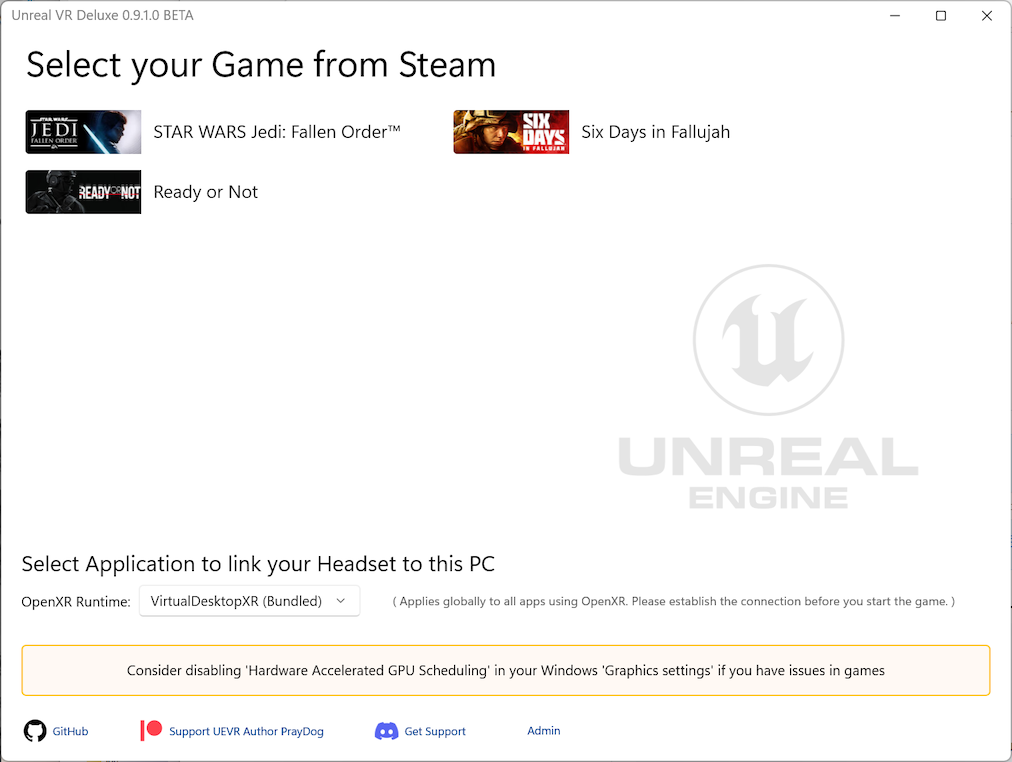
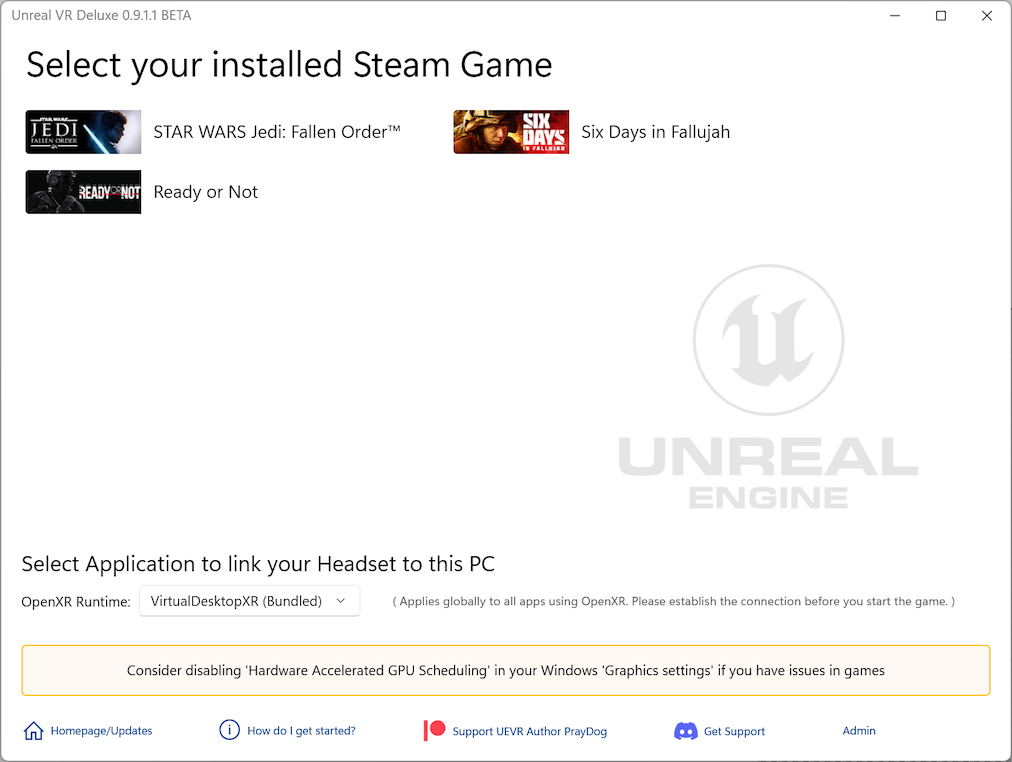
Tutorials page

diff --git a/UEVRTutorial.md b/UEVRTutorial.md
@@ -1,0 +1,84 @@
+## How to get started with UEVRDeluxe?
+New to UEVR, and you want to play 2D PC Steam games in Virtual Reality e.g. using your Meta Quest headset? This is how to get started.  
+
+### 1. Make sure your PC can handle it
+Because VR renders at a very high resolution, and VR experience is sensitive to low frame rates, you need a modern, powerful PC.
+Especially the graphics card should be powerful and have lots of VRAM for the high resolution required to be rendered.  
+If the game you want to play does not even run with high frame rates in high resolutions in 2D, do not even try it in VR.  
+
+### 2. Install your game
+First check if your game is running on Unreal Engine version 4 or higher, which is required for UEVR.
+Simplest way: google/bing you games name including " unreal engine version".  
+UEVR Deluxe currently only supports Steam. Install your game via Steam in the normal way.
+
+### 3. Make sure you have fast network connections
+Transferring the VR display data calculated on your PC to your headset requires lots of bandwidth.  
+
+- If you have a good Wifi/LAN connection - go for WIFI connection  
+Is your PC connected to your router via LAN? Is your network router modern (preferably WIFI6/6E/7)? 
+Is your network channel idle and not congested with other neighborhood networks or e.g. other devices sipping bandwith?
+
+- no good network - go for USB cable connection  
+Though it sounds like a better bet to simply always use USB, it will reduce your options. Better go for WIFI if you can.
+
+### 4. Choose and install an app to link your headset to your PC
+While there are several smaller ones out there, the most widely used and user friendly ones are these:
+
+| App Name | Price | Network | Image quality |
+|----------|-------|---------|---------------|
+| [Virtual Desktop](https://www.vrdesktop.net/) | One time purchase | WIFI only | Best | 
+| [SteamVR](https://store.steampowered.com/app/250820/SteamVR/) | Free | WIFI only | Good |
+| [Meta Quest Link](https://www.meta.com/en-us/help/quest/pcvr/) | Free  | WIFI (Airlink) and USB | Good |
+
+If your network is great, I would highly recommend [Virtual Desktop](https://www.vrdesktop.net/).
+It has the best image encoding, resulting in best image quality if your PC can handle it.  
+If your network is weak and you are a Meta Quest user, go for USB on [Meta Quest Link](https://www.meta.com/en-us/help/quest/pcvr/).  
+If you search for a free option that is also know to be very stable, go for [SteamVR](https://store.steampowered.com/app/250820/SteamVR/).  
+Except from Meta Quest Link the installation requires an app both on PC as well as on the headset.
+
+### 5. Install UEVR Deluxe
+The latest releases can always be found here on GitHub:  
+<a href="https://github.com/oduis/UEVRDeluxe/releases" class="download-link">Download latest UEVR Deluxe release</a>
+
+### 6. UEVR Deluxe - Games page
+When starting UEVR Deluxe you will find a list of installed Unreal engine Steam games that *might* work, plus a switcher for the OpenXR runtime - what is it?  
+There are to protocol standards to transfer VR graphics data: OpenVR is the old one. Some older headsets run OpenVR natively, and SteamVR was first built on it.
+The newer version and recommended protocol is OpenXR. Using OpenXR you can decide what linking app should handle your OpenXR graphics. If you have more than one installed (e.g. to try out different options), choose the one to start the game with here. It is a global option for *all* apps using OpenXR on your PC, not just UEVR Deluxe.
+After selecting your OpenXR runtime (if necessary), just click the game to start.
+
+### 7. UEVR Deluxe - select a profile
+You need a profile telling UEVR how to handle the game, how to connect to your controller e.g. to your weapon etc.
+Just hit "Search online" on this page. You will get a list of profiles submitted and tested by the community (since we are at the start there are not many games supported). Just select a profile that looks good and hit the "Install" button.  
+If there is no profile you can create a simple one yourself. Hit the "Add profile" button and select the options. Typically you would try the most performant options first. If the game crashes or shows other graphical issues, go for some more conservative settings.
+
+### 8. UEVR Deluxe - start the game
+Make your that you link app is running and you are connected via VR headset to your PC *before* hitting the launch button.  
+UEVR will start the game (if it is not already running) and injects UEVR into game. Continue in your headset.  
+First UEVR shows a menu in-game. You can hide the menu using the "Insert" ("Ins") key on your keyboard, or by pressing both joystick buttons simultaneously.
+
+### 9. Mastering in-game controls
+If the game supports gamepads, you VR controllers will function like a gamepad. You can typically use the joystick and the A button to navigate the menus:
+
+| VR controller button... | ...will function as game button |
+|----------------------|------------------------------|
+| Left thumbstick | Move in game |
+| Right thumbstick | Rotate view |
+| Left Grip | LB |
+| Right Grip | RB |
+| Left Trigger | LT |
+| Right Trigger | RT |
+| Left Thumbstick Click | L3 |
+| Right Thumbstick Click | R3 |
+| Left System Button | Start/Pause |
+| Left A Button (X on Meta Quest) | B/Circle |
+| Left B Button (Y on Meta Quest) | Y/Triangle |
+| Right A Button | A/X |
+| Right B Button | X/Square |
+
+Not the counterintuitive mapping of the buttons B/X/Y.
+You can typically also play with the keyboard and mouse, using just the VR 3D view.
+
+### 10. Connecting your controllers motion controls
+Connecting your 3D controllers to e.g. your hand or weapons greatly increases the immersion (6DOF).
+However, if you have no preset profile from the "Search online" database, it is pretty complex to set up.
+See some [Youtube in depth tutorials](https://www.youtube.com/watch?v=4ccaX8Hr1JU) for more details.

diff --git a/SubmitProfile.md b/SubmitProfile.md
@@ -1,12 +1,15 @@
 ## How to submit a UEVRDeluxe game profile to the online database
-You have built a battletested, working profile? This is how to publish it to the community, so everyone can enjoy your work:
+You have built a battle-tested, working profile? This is how to publish it to the community, so everyone can enjoy your work:
+
 ### 1. Test it to make sure quality is good
-Many games just run with some little glitches, but test it before submitting:
+Many games run with some little glitches, but test it before submitting:
 - Play the game yourself for more than just 5 minutes (in cases it crashes e.g. later on cutscenes etc.)
 - Even better: Have the community on [Discord UE-Games](https://discord.com/channels/747967102895390741/1062167556129030164) test it
+
 ### 2. Add descriptions
 Many games need special graphic settings to look good in VR, or need some remarks on what workarounds are needed for glitches. In "Edit profile", hit the "Publish" button. It will auto-generate some templates for ```ProfileMeta.json``` and ```ProfileDescription.md```  
 Now click on "Open folder" and edit these two files.
+
 #### 2.1 Edit ```ProfileMeta.json```
 Please leave the default filled fields like EXEName alone. Edit these fields:
 - ```authorName```  
@@ -14,21 +17,22 @@ Add your name here. Again just a short name, not a bio ;-)
 - ```gameVersion```  
 SHORT text info on what version of the game the profile is tested with. Sometimes game updates require newer profiles, so this is important.
 - ```minUEVRVersionDay```  
-If your profile needs a newer UEVR version you can state the minimum date of the version (code submittion date) here. Leave the default (2024-10-31 for official 1.05) if you have not special needs.
+If your profile needs a newer UEVR version you can state the minimum date of the version (code submission date) here. Leave the default (2024-10-31 for official 1.05) if you have not special needs.
 - ```modifiedDate```  
-Date when you edited and tested this profile. Prefilled with todays date.
+Date when you edited and tested this profile. Pre-filled with todays date.
 - ```remarks```  
 A SHORT (128 chars max.) remark for this profile. This is shown when the user searches the database. It should helps him to select the right profile. Can be left empty.
 Most descriptions go into the MD file, not here.
 - ```nullifyPlugins```  
-Some game come with plugins that interfer with UEVR. Standard is to block these plugins. If the game needs them and breaks, set it to ```false```
+Some game come with plug-ins that interfere with UEVR. Standard is to block these plug-ins. If the game needs them and breaks, set it to ```false```
 
 #### 2.2 Edit ```ProfileDescription.md```
 This is the full description in [Markdown format](https://www.markdownguide.org/basic-syntax/). You can either edit the file with any text editor, use Visual Studio Code (built in preview support), or one of the many online editors like [Dillinger](https://dillinger.io/).
 
 ### 3. Publish the full profile as Zip
-After having added the description, hit the "Publish" button again. UEVRDeluxe will check some basics, delete temporary files like crashdumps and logs, and pack up a ZIP for you.  
+After having added the description, hit the "Publish" button again. UEVRDeluxe will check some basics, delete temporary files like crash dumps and logs, and pack up a ZIP for you.  
 The packed profile will have some settings resetted that might be user dependent (e.g. log level, enable depth buffer), but if will leave your local profile alone. So it is NOT the same as zipping the folder yourself ;-).
+
 ### 4. Submit on Discord
 Now post this to the [Discord UE-general channel](https://discord.com/channels/747967102895390741/947806014344925274). Add the two UEVRDeluxe admins @Ashok and @ODuis to make sure it's read. We'll check it briefly and upload it to the clouds database.  
   

diff --git a/index.md b/index.md
@@ -1,7 +1,9 @@
 Play many Unreal Engine games from your Steam library in Virtual Reality, e.g. with Meta Quest headsets.  
-This app takes [Praydog’s brilliant (UEVR)](https://github.com/praydog/UEVR) backend core, but replaces the UI part with a user-friendly, new one with a profiles database and many new features:
+This app takes [Praydog’s brilliant (UEVR)](https://github.com/praydog/UEVR) back end core, but replaces the UI part with a user-friendly, new one with a profiles database and many new features:
 
 <a href="https://github.com/oduis/UEVRDeluxe/releases" class="download-link">Download latest release</a>
+
+New to UEVR? Read [this step by step beginners tutorial](UEVRTutorial.md)  
 
 ## Integrates with Steam, includes XR Runtime switcher
 Takes you by the hand, filters installed games that might be running Unreal engine, and gives you warnings for problems beginners struggle with:  
